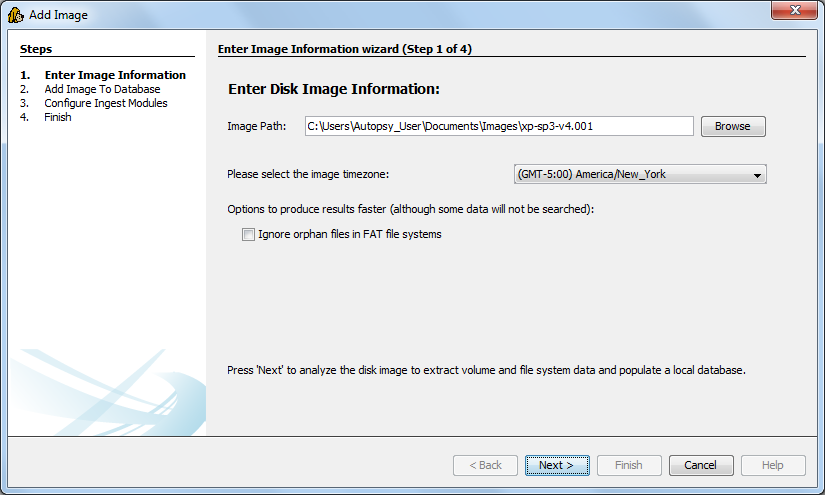
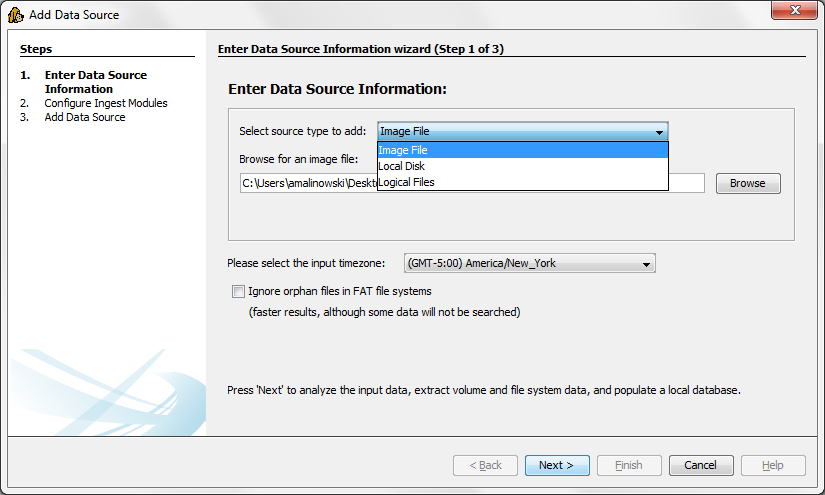
update user docs and screen shots (add data source wizard)

diff --git a/Core/src/org/sleuthkit/autopsy/casemodule/docs/addImage.html b/Core/src/org/sleuthkit/autopsy/casemodule/docs/addImage.html
@@ -1,23 +1,27 @@
 <!DOCTYPE HTML PUBLIC "-//W3C//DTD HTML 4.01 Transitional//EN">
 <html>
     <head>
-        <title>Adding Image Wizard</title>
+        <title>Adding Data Source (Image, Disk, Files) Wizard</title>
         <link rel="stylesheet" href="nbdocs:/org/sleuthkit/autopsy/core/docs/ide.css" type="text/css">
         <meta http-equiv="Content-Type" content="text/html; charset=UTF-8">
     </head>
     <body>
-        <h2>Adding An Image</h2>
-        <p>There are two ways to add an image to the currently opened case:</p>
+        <h2>Adding a Data Source</h2>
+        
+        <p>There are two ways to add an data source to the currently opened case:</p>
         <ul>
-            <li>Go to "File" and select "Add Image..." </li>
+            <li>Go to "File" and select "Add Data Source..." </li>
             <li>Select the <img src="addImage-icon.png" alt="Add Image Icon" /> icon on the toolbar</li>
         </ul>
-        <p>This will bring up the Add Image wizard. It will guide you through the process.</p>
+        <p>This will bring up the Add Data Source wizard. It will guide you through the process.</p>
         <p>Here are some notes on what is going on during the process:</p>
         <ul>
             <li>
-                The first panel will ask you to browse for the image on your machine.
-                You will also need to specify the timezone that the disk image came from so that the dates and times can be properly displayed and converted.
+                The first panel will ask you to select the data source type and 
+                browse for the data source (image or files located on the computer, or select the device detected).
+                
+                In case of adding a disk image, you will also need to specify the timezone that the disk image came from 
+                so that the dates and times can be properly displayed and converted.
                 As soon as you click 'Next >', Autopsy will begin analyzing the disk image and populating the database in the background.
                 <br />
                 <img src="AddImageWizard1_Help.png" alt="Add Image Wizard Panel 1 Help" />
@@ -29,21 +33,21 @@
                 <img src="AddImageWizard2_Help.png" alt="Add Image Wizard Panel 3 Help" />
             </li>
             <li>
-                The third panel provides a progress bar and information about the image Autopsy is currently processing.
-                If small enough, the image may have already finished processing, allowing you to continue past this panel.
+                The third panel provides a progress bar and information about the data source Autopsy is currently processing.
+                If small enough, the input may have already finished processing, allowing you to continue past this panel.
                 However, it may be necessary to wait for a short time while the database is populated.
                 <br />
                 <img src="AddImageWizard3_Help.png" alt="Add Image Wizard Panel 2 Help" />
             </li>
  		    <li>
-                Once the image finishes adding, the ingest modules you selected will automatically run in the background.
-                If the image is processed before you select ingest modules, Autopsy will wait until you have done so.
+                Once the input data source finishes adding, the ingest modules you selected will automatically run in the background.
+                If the data source is processed before you select ingest modules, Autopsy will wait until you have done so.
             </li> 
         </ul>
-        </p>
+        
         <p>
-            Note that Autopsy will store the path to the image in its configuration file. 
-            If the image moves, then Autopsy will give an error because it can't find the image file.
+            Note that in case of image, Autopsy will store the path to the image in its configuration file. 
+            If the image moves, then Autopsy will give an error because it can't find the image file and it will prompt user to point to the new image location.
         </p>
     </body>
 </html>

diff --git a/Core/src/org/sleuthkit/autopsy/casemodule/docs/aboutImage.html b/Core/src/org/sleuthkit/autopsy/casemodule/docs/aboutImage.html
@@ -1,35 +1,51 @@
 <!DOCTYPE HTML PUBLIC "-//W3C//DTD HTML 4.01 Transitional//EN">
 <html>
     <head>
-        <title>Disk Image Basics</title>
+        <title>Data Source Basics</title>
         <link rel="stylesheet" href="nbdocs:/org/sleuthkit/autopsy/core/docs/ide.css" type="text/css">
         <meta http-equiv="Content-Type" content="text/html; charset=UTF-8">
     </head>
     <body>
-        <h2>About Disk Images</h2>
+        <h2>About Data Sources</h2>
+        
         <p>
-            In Autopsy, an "image" refers to a byte-for-byte copy of a hard drive or other storage media.
-            To analyze an image, you must use the <a href="nbdocs:/org/sleuthkit/autopsy/casemodule/docs/addImage.html">Add Image Wizard</a>
+            Autopsy supports 3 types of data sources that can be added to the Case:</p>
+         <ul>
+            <li>Disk Image (raw, Encase, etc).
+                "Image" refers to a byte-for-byte copy of a hard drive or other storage media.
+            </li>
+            <li>Disk Device (physical or logical disk partition, plugged in the user machine and detected by Autopsy).
+                Note: to correctly detect all devices, Autopsy needs to run as Administrator.
+            </li>
+            <li>Logical Files (files and folders on the user machine file system)</li>
+        </ul>
+
+        <p>        
+        User needs to select the data source type from the pull down menu in the Add Data Source wizard.
+        </p>
+        
+        <p>
+            To analyze a Data Source, user should use the <a href="nbdocs:/org/sleuthkit/autopsy/casemodule/docs/addImage.html">Add Data Source Wizard</a>
             to add it to a <a href="nbdocs:/org/sleuthkit/autopsy/casemodule/docs/casemodule-about.html">case</a>.
         </p>
         <p>
-            Autopsy populates an embedded database for each image that it imports.
-            This database is a SQLite database and it contains all of the file system metadata from the image.
-            The database is stored in the case directory, but the image will stay in its original location.
-            The image must remain accessible for the duration of the analysis because the database contains only basic file system information.  
-            The image is needed to retrieve file content.
+            Autopsy populates an embedded database for each data source (image, disk device, logical files) that it imports.
+            This database is a SQLite database and it contains all of the file system metadata from the input data source.
+            The database is stored in the case directory, but the data source will stay in its original location.
+            The data source must remain accessible for the duration of the analysis because the database contains only basic file system information (meta-data, not the actual content).  
+            The image / files are needed to retrieve file content.
         </p>
         
-        <h2>Supported Formats</h2>
+        <h2>Supported Image Formats</h2>
         <p>Currently, Autopsy supports these image formats:</p>
         <ul>
-            <li>Raw Single (For example: *.img, *.dd, etc)</li>
+            <li>Raw Single (For example: *.img, *.dd, *.raw, etc)</li>
             <li>Raw Split (For example: *.001, *.002, *.aa, *.ab, etc)</li>
             <li>EnCase (For example: *.e01, *e02, etc)</li>
         </ul>
 
-        <h2>Removing an Image</h2>
-        <p>You cannot currently remove an image from a case.</p>
+        <h2>Removing a Data Source</h2>
+        <p>You cannot currently remove an data source from a case.</p>
 
     </body>
 </html>

diff --git a/Core/src/org/sleuthkit/autopsy/casemodule/docs/overview.html b/Core/src/org/sleuthkit/autopsy/casemodule/docs/overview.html
@@ -14,7 +14,7 @@
             The remainder of the help guide is organized around these concepts.
         </p>
         <p>
-            The main Autopsy features include: importing and image and exploring its file systems,
+            The main Autopsy features include: importing a Data Source (image, disk, files) and exploring its file systems,
             running analysis modules (ingest), viewing ingest results, viewing content and generating reports.
         </p>
         <p>
@@ -24,7 +24,7 @@
         </p>
         <p>
             All data is organized around the concept of a <a href="nbdocs:/org/sleuthkit/autopsy/casemodule/docs/casemodule-about.html">case</a>.  
-            A case can have one or more disk <a href="nbdocs:/org/sleuthkit/autopsy/casemodule/docs/aboutImage.html">images</a> loaded into it.
+            A case can have one or more data <a href="nbdocs:/org/sleuthkit/autopsy/casemodule/docs/aboutImage.html">sources</a> loaded into it.
         </p>
         <p>The main window has three major areas:</p>
         <ul>

diff --git a/Core/src/org/sleuthkit/autopsy/casemodule/docs/casemodule-about.html b/Core/src/org/sleuthkit/autopsy/casemodule/docs/casemodule-about.html
@@ -8,8 +8,8 @@
     <body>
         <h2>About Cases</h2>
         <p>
-            In Autopsy, a "case" is a container concept for a set of <a href="nbdocs:/org/sleuthkit/autopsy/casemodule/docs/aboutImage.html">images</a>.  
-            The set of images could be from multiple drives in a single computer or from multiple computers. 
+            In Autopsy, a "case" is a container concept for a set of <a href="nbdocs:/org/sleuthkit/autopsy/casemodule/docs/aboutImage.html">input data sources (disk images, disk devices, logical files)</a>.  
+            The set of data  could be from multiple drives in a single computer or from multiple computers. 
             When you make a case, it will create a directory to hold all of the information.  
             The directory will contain the main Autopsy configuration file, other module's configuration files, 
             some databases, generated reports, and some other information (temporary files, cache files).

diff --git a/Core/src/org/sleuthkit/autopsy/ingest/docs/ingest-about.html b/Core/src/org/sleuthkit/autopsy/ingest/docs/ingest-about.html
@@ -25,7 +25,7 @@
             and even for very large images to be processed there can be initial results available minutes, sometimes seconds after the analysis has started.
         </p>
   	    <p>
-            You can start image ingest in two ways. When you add an image with the <a href="nbdocs:/org/sleuthkit/autopsy/casemodule/docs/addImage.html">Add Image wizard</a>,
+            You can start image ingest in two ways. When you add an image with the <a href="nbdocs:/org/sleuthkit/autopsy/casemodule/docs/addImage.html">Add Data Source wizard</a>,
             you will be shown the list of ingest modules and you can choose which you want to run.
             You can also launch the Ingest Manager run ingest by right clicking on an image in the explorer tree and choosing "Restart Image Ingest".
         </p>
